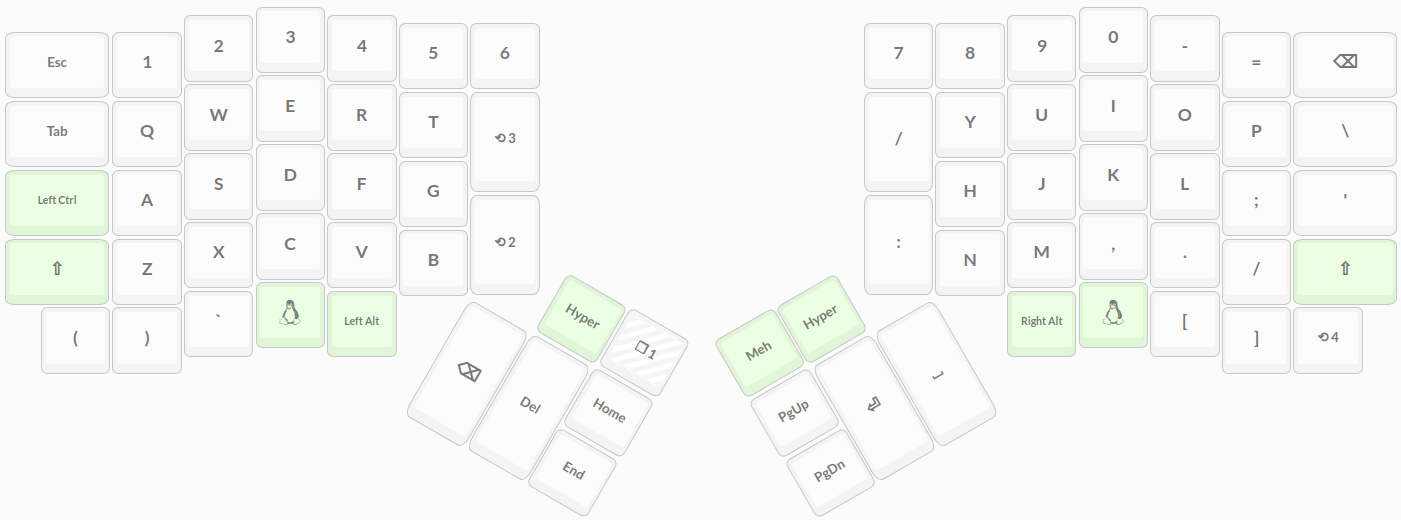
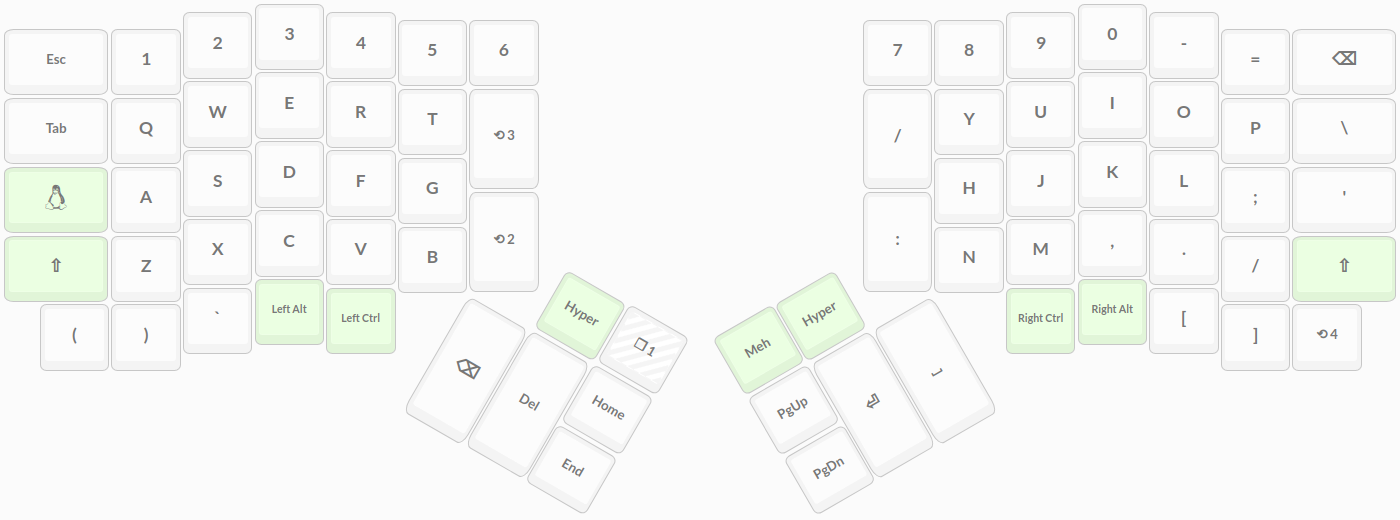
Update linux layer

diff --git a/keymap.c b/keymap.c
@@ -51,9 +51,9 @@ const uint16_t PROGMEM keymaps[][MATRIX_ROWS][MATRIX_COLS] = {
   [1] = LAYOUT_ergodox_pretty(
     KC_ESCAPE,      KC_1,           KC_2,           KC_3,           KC_4,           KC_5,           KC_6,                                           KC_7,           KC_8,           KC_9,           KC_0,           KC_MINUS,       KC_EQUAL,       KC_BSPACE,
     KC_TAB,         KC_Q,           KC_W,           KC_E,           KC_R,           KC_T,           MO(3),                                          KC_SLASH,       KC_Y,           KC_U,           KC_I,           KC_O,           KC_P,           KC_BSLASH,
-    KC_LCTRL,       KC_A,           KC_S,           KC_D,           KC_F,           KC_G,                                                                           KC_H,           KC_J,           KC_K,           KC_L,           KC_SCOLON,      KC_QUOTE,
+    KC_LGUI,        KC_A,           KC_S,           KC_D,           KC_F,           KC_G,                                                                           KC_H,           KC_J,           KC_K,           KC_L,           KC_SCOLON,      KC_QUOTE,
     KC_LSHIFT,      KC_Z,           KC_X,           KC_C,           KC_V,           KC_B,           MO(2),                                          KC_COLN,        KC_N,           KC_M,           KC_COMMA,       KC_DOT,         KC_SLASH,       KC_RSHIFT,
-    KC_LPRN,        KC_RPRN,        KC_GRAVE,       KC_LGUI,        KC_LALT,                                                                                                        KC_RALT,        KC_RGUI,        KC_LBRACKET,    KC_RBRACKET,    MO(4),
+    KC_LPRN,        KC_RPRN,        KC_GRAVE,       KC_LALT,        KC_LCTRL,                                                                                                       KC_RCTRL,       KC_RALT,        KC_LBRACKET,    KC_RBRACKET,    MO(4),
                                                                                                     KC_HYPR,        KC_TRANSPARENT, KC_MEH,         KC_HYPR,
                                                                                                                     KC_HOME,        KC_PGUP,
                                                                                     KC_BSPACE,      KC_DELETE,      KC_END,         KC_PGDOWN,      KC_ENTER,       KC_SPACE

diff --git a/README.md b/README.md
@@ -2,7 +2,7 @@
 
 This repo tracks the key layout I use for my [ergodox-ez](https://ergodox-ez.com/). It aims to provide a seamless experience between MacOS and Linux based OS's by keeping the differences at a minimum and the switch between both as easy as possible.
 
-Currently I use [oryx](https://ergodox-ez.com/pages/oryx) to manually configure the layout, which I found to be enough for my current needs. Due to this, you may find the `keymap.c` file weirdly formatted, as it's just an export obtained from [my oryx's configurator](https://configure.ergodox-ez.com/ergodox-ez/layouts/BND0A/latest/0).
+Currently I use [oryx](https://ergodox-ez.com/pages/oryx) to manually configure the layout, which I found to be enough for my current needs. Due to this, you may find the `keymap.c` file weirdly formatted, as it's just an export obtained from [my oryx's configurator](https://configure.ergodox-ez.com/ergodox-ez/layouts/xbJb3/latest/0).
 
 ## Layers
 
@@ -18,7 +18,7 @@ The main difference between this layout and the one you can find on any macbook 
 
 ![linux](img/linux_layer.png)
 
-Compared to the MacOS layer, the only difference is that `Cmd` has been replaced by `Alt` and `Option` has been replaced by `Meta`. I don't really consider them proper substitutes and I'm working on a better option for this.
+Compared to the MacOS layer, the only differences are that `Cmd` has been replaced by `Ctrl`, `Option` has been replaced by `Alt` and the left commodity `Ctrl` has been replaced by a meta key. This is because `Ctrl` in Linux has roughly the same functionality as `Cmd` does in MacOS. I don't really consider them proper substitutes and I'm working on a better option for this.
 
 ### 3. Code
 
